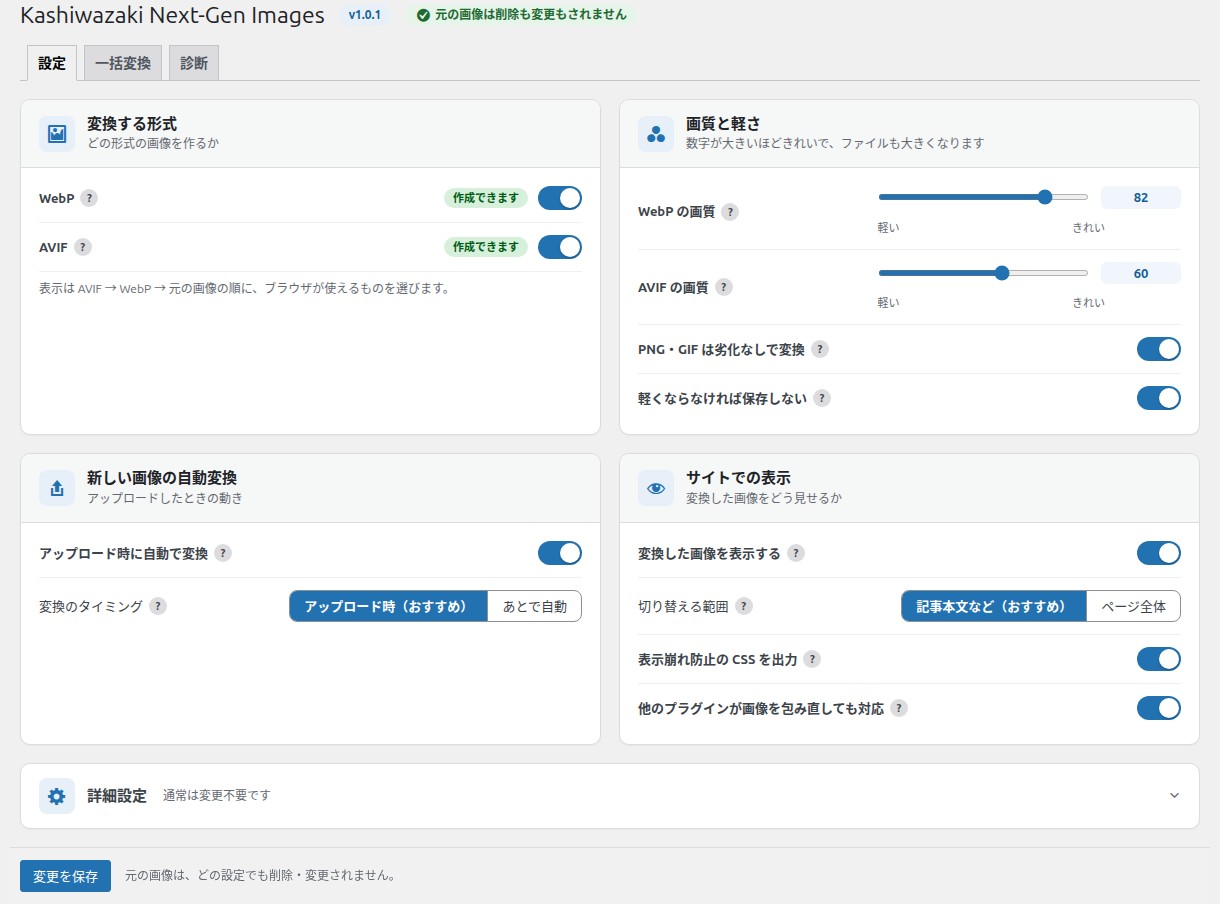
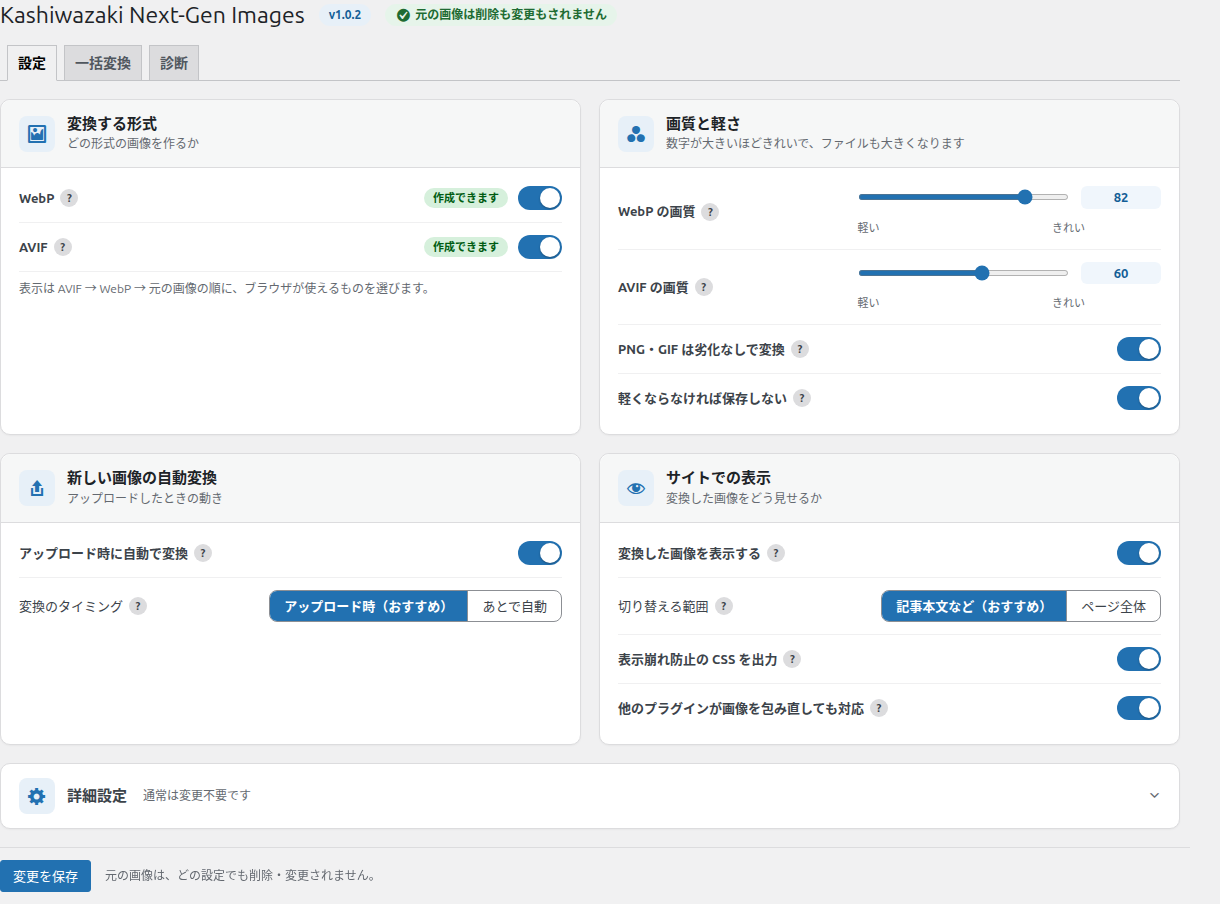
Update to v1.0.2
- cavif で AVIF を作るとき、1 回の処理（一括変換の 1 区切り・アップロード直後の変換・今すぐ変換など）の締め切りを見ずに、1 枚の上限（既定 60 秒）まで待っていた問題を直した。締め切りが近いときは、cavif を締め切りまでで止めるか、始めずに次の回へ回す。止めた分は失敗に数えず、次の回で続けて変換する（一括変換・今すぐ変換などで、その回で最初に変換する 1 枚は、今までどおり上限まで待つ。アップロード直後の変換は、最初の 1 枚から締め切りを守る）
- 締め切りで止めた AVIF を、Imagick・GD で作り直そうとしないようにした
- 変換の途中で PHP の処理が終わったとき（exit など）、動いている cavif を止めてから一時ファイルを消すようにした
- マニュアルの cavif のページに「1 回の処理の締め切りが近いとき」の説明を追加し、画面写真を 1.0.2 の表示に更新

diff --git a/docs/cavif.html b/docs/cavif.html
@@ -11,7 +11,7 @@
     <nav class="sidebar">
         <div class="sidebar-header">
             <h2 style="color:#fff;">Next-Gen Images</h2>
-            <span class="version">v1.0.1</span>
+            <span class="version">v1.0.2</span>
             <img src="images/main-visual.png" alt="" style="width:100%;border-radius:4px;margin-top:8px;">
         </div>
         <ul>
@@ -43,7 +43,7 @@
 </section>
 
 <section><h2>設定したあとの動き</h2>
-<table><thead><tr><th style="width:35%;">項目</th><th>動き</th></tr></thead><tbody><tr><td>使う順番</td><td>「変換エンジン」が「自動」のとき、AVIF は Imagick → GD → cavif の順に、作れる道具を使います。GD か Imagick で AVIF を作れるサーバーでは、cavif は予備になります</td></tr><tr><td>cavif を先に使いたいとき</td><td>「設定」タブの「詳細設定」→「変換エンジン」で「cavif（外部プログラム・AVIF のみ）」を選びます</td></tr><tr><td>画質</td><td>「設定」タブの「AVIF の画質」の数字をそのまま使います</td></tr><tr><td>変換しない画像</td><td>GD と同じです（CMYK の画像、sRGB 以外の色設定の画像、アニメーション画像。「PNG・GIF は劣化なしで変換」がオンのときの PNG・GIF）</td></tr><tr><td>1 枚にかかる時間</td><td>写真 1 枚で数秒が目安です。大きな画像ほど長くかかります</td></tr><tr><td>時間がかかりすぎたとき</td><td>管理画面からの変換では 1 枚 60 秒、コマンドでの変換では 300 秒で打ち切り、その画像の AVIF は「変換できず（エンジンのエラー）」になります。WebP と元の画像の表示には影響しません</td></tr><tr><td>サーバーへの負担</td><td>同じサーバーの他の利用者に迷惑をかけないよう、同時に使う CPU の数を 2 つまでに抑えています</td></tr></tbody></table>
+<table><thead><tr><th style="width:35%;">項目</th><th>動き</th></tr></thead><tbody><tr><td>使う順番</td><td>「変換エンジン」が「自動」のとき、AVIF は Imagick → GD → cavif の順に、作れる道具を使います。GD か Imagick で AVIF を作れるサーバーでは、cavif は予備になります</td></tr><tr><td>cavif を先に使いたいとき</td><td>「設定」タブの「詳細設定」→「変換エンジン」で「cavif（外部プログラム・AVIF のみ）」を選びます</td></tr><tr><td>画質</td><td>「設定」タブの「AVIF の画質」の数字をそのまま使います</td></tr><tr><td>変換しない画像</td><td>GD と同じです（CMYK の画像、sRGB 以外の色設定の画像、アニメーション画像。「PNG・GIF は劣化なしで変換」がオンのときの PNG・GIF）</td></tr><tr><td>1 枚にかかる時間</td><td>写真 1 枚で数秒が目安です。大きな画像ほど長くかかります</td></tr><tr><td>時間がかかりすぎたとき</td><td>管理画面からの変換では 1 枚 60 秒、コマンドでの変換では 300 秒で打ち切り、その画像の AVIF は「変換できず（エンジンのエラー）」になります。WebP と元の画像の表示には影響しません</td></tr><tr><td>1 回の処理の締め切りが近いとき</td><td>一括変換・アップロード直後の変換・「今すぐ変換」は、サーバーの時間制限に収まるよう、1 回の処理に締め切りを決めて区切って進めます。締め切りが近いときは、cavif を締め切りまでで止めるか、始めずに次の回へ回します。この分は失敗に数えず、次の回で続けて変換します（メディアの一覧では「一部のサイズが未処理」と出ることがあります）。一括変換・「今すぐ変換」では、その回で最初に変換する 1 枚は上の時間まで待ちます（アップロード直後の変換は、最初の 1 枚から締め切りを守ります。残りは WP-Cron が動いていればあとで続け、動いていなければ「一括変換」で処理されます）</td></tr><tr><td>サーバーへの負担</td><td>同じサーバーの他の利用者に迷惑をかけないよう、同時に使う CPU の数を 2 つまでに抑えています</td></tr></tbody></table>
 </section>
 
 <section><h2>「使えません」と表示されたとき</h2>
@@ -70,7 +70,7 @@
         </nav>
         <footer class="manual-footer">
             <p>作者: <a href="https://www.tsuyoshikashiwazaki.jp/profile/" target="_blank" rel="noopener">柏崎剛（Tsuyoshi Kashiwazaki）</a></p>
-            <p>プラグイン: Kashiwazaki Next-Gen Images v1.0.1</p>
+            <p>プラグイン: Kashiwazaki Next-Gen Images v1.0.2</p>
         </footer>
     </main>
     <div class="lightbox"></div>

diff --git a/docs/status.html b/docs/status.html
@@ -11,7 +11,7 @@
     <nav class="sidebar">
         <div class="sidebar-header">
             <h2 style="color:#fff;">Next-Gen Images</h2>
-            <span class="version">v1.0.1</span>
+            <span class="version">v1.0.2</span>
             <img src="images/main-visual.png" alt="" style="width:100%;border-radius:4px;margin-top:8px;">
         </div>
         <ul>
@@ -76,7 +76,7 @@ AddType image/avif .avif
         </nav>
         <footer class="manual-footer">
             <p>作者: <a href="https://www.tsuyoshikashiwazaki.jp/profile/" target="_blank" rel="noopener">柏崎剛（Tsuyoshi Kashiwazaki）</a></p>
-            <p>プラグイン: Kashiwazaki Next-Gen Images v1.0.1</p>
+            <p>プラグイン: Kashiwazaki Next-Gen Images v1.0.2</p>
         </footer>
     </main>
     <div class="lightbox"></div>

diff --git a/docs/settings.html b/docs/settings.html
@@ -11,7 +11,7 @@
     <nav class="sidebar">
         <div class="sidebar-header">
             <h2 style="color:#fff;">Next-Gen Images</h2>
-            <span class="version">v1.0.1</span>
+            <span class="version">v1.0.2</span>
             <img src="images/main-visual.png" alt="" style="width:100%;border-radius:4px;margin-top:8px;">
         </div>
         <ul>
@@ -100,7 +100,7 @@
         </nav>
         <footer class="manual-footer">
             <p>作者: <a href="https://www.tsuyoshikashiwazaki.jp/profile/" target="_blank" rel="noopener">柏崎剛（Tsuyoshi Kashiwazaki）</a></p>
-            <p>プラグイン: Kashiwazaki Next-Gen Images v1.0.1</p>
+            <p>プラグイン: Kashiwazaki Next-Gen Images v1.0.2</p>
         </footer>
     </main>
     <div class="lightbox"></div>

diff --git a/docs/bulk.html b/docs/bulk.html
@@ -11,7 +11,7 @@
     <nav class="sidebar">
         <div class="sidebar-header">
             <h2 style="color:#fff;">Next-Gen Images</h2>
-            <span class="version">v1.0.1</span>
+            <span class="version">v1.0.2</span>
             <img src="images/main-visual.png" alt="" style="width:100%;border-radius:4px;margin-top:8px;">
         </div>
         <ul>
@@ -66,7 +66,7 @@
         </nav>
         <footer class="manual-footer">
             <p>作者: <a href="https://www.tsuyoshikashiwazaki.jp/profile/" target="_blank" rel="noopener">柏崎剛（Tsuyoshi Kashiwazaki）</a></p>
-            <p>プラグイン: Kashiwazaki Next-Gen Images v1.0.1</p>
+            <p>プラグイン: Kashiwazaki Next-Gen Images v1.0.2</p>
         </footer>
     </main>
     <div class="lightbox"></div>

diff --git a/docs/cli.html b/docs/cli.html
@@ -11,7 +11,7 @@
     <nav class="sidebar">
         <div class="sidebar-header">
             <h2 style="color:#fff;">Next-Gen Images</h2>
-            <span class="version">v1.0.1</span>
+            <span class="version">v1.0.2</span>
             <img src="images/main-visual.png" alt="" style="width:100%;border-radius:4px;margin-top:8px;">
         </div>
         <ul>
@@ -51,7 +51,7 @@
         </nav>
         <footer class="manual-footer">
             <p>作者: <a href="https://www.tsuyoshikashiwazaki.jp/profile/" target="_blank" rel="noopener">柏崎剛（Tsuyoshi Kashiwazaki）</a></p>
-            <p>プラグイン: Kashiwazaki Next-Gen Images v1.0.1</p>
+            <p>プラグイン: Kashiwazaki Next-Gen Images v1.0.2</p>
         </footer>
     </main>
     <div class="lightbox"></div>

diff --git a/docs/delivery.html b/docs/delivery.html
@@ -11,7 +11,7 @@
     <nav class="sidebar">
         <div class="sidebar-header">
             <h2 style="color:#fff;">Next-Gen Images</h2>
-            <span class="version">v1.0.1</span>
+            <span class="version">v1.0.2</span>
             <img src="images/main-visual.png" alt="" style="width:100%;border-radius:4px;margin-top:8px;">
         </div>
         <ul>
@@ -65,7 +65,7 @@
         </nav>
         <footer class="manual-footer">
             <p>作者: <a href="https://www.tsuyoshikashiwazaki.jp/profile/" target="_blank" rel="noopener">柏崎剛（Tsuyoshi Kashiwazaki）</a></p>
-            <p>プラグイン: Kashiwazaki Next-Gen Images v1.0.1</p>
+            <p>プラグイン: Kashiwazaki Next-Gen Images v1.0.2</p>
         </footer>
     </main>
     <div class="lightbox"></div>

diff --git a/docs/index.html b/docs/index.html
@@ -11,7 +11,7 @@
     <nav class="sidebar">
         <div class="sidebar-header">
             <h2 style="color:#fff;">Next-Gen Images</h2>
-            <span class="version">v1.0.1</span>
+            <span class="version">v1.0.2</span>
             <img src="images/main-visual.png" alt="" style="width:100%;border-radius:4px;margin-top:8px;">
         </div>
         <ul>
@@ -56,7 +56,7 @@
         </nav>
         <footer class="manual-footer">
             <p>作者: <a href="https://www.tsuyoshikashiwazaki.jp/profile/" target="_blank" rel="noopener">柏崎剛（Tsuyoshi Kashiwazaki）</a></p>
-            <p>プラグイン: Kashiwazaki Next-Gen Images v1.0.1</p>
+            <p>プラグイン: Kashiwazaki Next-Gen Images v1.0.2</p>
         </footer>
     </main>
     <div class="lightbox"></div>

diff --git a/docs/media.html b/docs/media.html
@@ -11,7 +11,7 @@
     <nav class="sidebar">
         <div class="sidebar-header">
             <h2 style="color:#fff;">Next-Gen Images</h2>
-            <span class="version">v1.0.1</span>
+            <span class="version">v1.0.2</span>
             <img src="images/main-visual.png" alt="" style="width:100%;border-radius:4px;margin-top:8px;">
         </div>
         <ul>
@@ -53,7 +53,7 @@
         </nav>
         <footer class="manual-footer">
             <p>作者: <a href="https://www.tsuyoshikashiwazaki.jp/profile/" target="_blank" rel="noopener">柏崎剛（Tsuyoshi Kashiwazaki）</a></p>
-            <p>プラグイン: Kashiwazaki Next-Gen Images v1.0.1</p>
+            <p>プラグイン: Kashiwazaki Next-Gen Images v1.0.2</p>
         </footer>
     </main>
     <div class="lightbox"></div>

diff --git a/docs/setup.html b/docs/setup.html
@@ -11,7 +11,7 @@
     <nav class="sidebar">
         <div class="sidebar-header">
             <h2 style="color:#fff;">Next-Gen Images</h2>
-            <span class="version">v1.0.1</span>
+            <span class="version">v1.0.2</span>
             <img src="images/main-visual.png" alt="" style="width:100%;border-radius:4px;margin-top:8px;">
         </div>
         <ul>
@@ -48,7 +48,7 @@
         </nav>
         <footer class="manual-footer">
             <p>作者: <a href="https://www.tsuyoshikashiwazaki.jp/profile/" target="_blank" rel="noopener">柏崎剛（Tsuyoshi Kashiwazaki）</a></p>
-            <p>プラグイン: Kashiwazaki Next-Gen Images v1.0.1</p>
+            <p>プラグイン: Kashiwazaki Next-Gen Images v1.0.2</p>
         </footer>
     </main>
     <div class="lightbox"></div>

diff --git a/docs/troubleshooting.html b/docs/troubleshooting.html
@@ -11,7 +11,7 @@
     <nav class="sidebar">
         <div class="sidebar-header">
             <h2 style="color:#fff;">Next-Gen Images</h2>
-            <span class="version">v1.0.1</span>
+            <span class="version">v1.0.2</span>
             <img src="images/main-visual.png" alt="" style="width:100%;border-radius:4px;margin-top:8px;">
         </div>
         <ul>
@@ -71,7 +71,7 @@
         </nav>
         <footer class="manual-footer">
             <p>作者: <a href="https://www.tsuyoshikashiwazaki.jp/profile/" target="_blank" rel="noopener">柏崎剛（Tsuyoshi Kashiwazaki）</a></p>
-            <p>プラグイン: Kashiwazaki Next-Gen Images v1.0.1</p>
+            <p>プラグイン: Kashiwazaki Next-Gen Images v1.0.2</p>
         </footer>
     </main>
     <div class="lightbox"></div>

diff --git a/includes/class-kashiwazaki-next-gen-images-engine.php b/includes/class-kashiwazaki-next-gen-images-engine.php
@@ -56,6 +56,18 @@ final class Kashiwazaki_Next_Gen_Images_Engine {
 	private static $shutdown_registered = false;
 
 	/**
+	 * いま動いている外部プログラム（cavif）。PHP が途中で終わったとき、終了時の掃除で止めるため。
+	 *
+	 * @var resource|null
+	 */
+	private static $running = null;
+
+	/**
+	 * cavif を起動するのに、締め切りまで最低限残っているべき秒数。これより少なければ起動しない。
+	 */
+	const CAVIF_MIN_WAIT = 2.0;
+
+	/**
 	 * 動作確認の結果を保存するキー。
 	 *
 	 * コマンドライン（WP-CLI・cron）と Web では、同じサーバーでも PHP の拡張が違うことがよくある
@@ -368,6 +380,12 @@ final class Kashiwazaki_Next_Gen_Images_Engine {
 				$result = new WP_Error( 'engine_error', $engine . ': ' . $e->getMessage() );
 			}
 
+			if ( is_wp_error( $result ) && 'time_up' === $result->get_error_code() ) {
+				// 締め切りで止めた（または始めなかった）。別のエンジンで続けると締め切りを越えるので、ここで返す。
+				// 呼び出し元は失敗ではなく「時間切れ・続きで処理」として扱う。
+				self::remove_tmp( $dest );
+				return $result;
+			}
 			if ( is_wp_error( $result ) ) {
 				if ( null === $first_error ) {
 					$first_error = $result;
@@ -1456,6 +1474,13 @@ final class Kashiwazaki_Next_Gen_Images_Engine {
 			return new WP_Error( 'engine_error', 'cavif: destination must be an absolute path' );
 		}
 
+		// 変換の締め切り（microtime の絶対時刻。0 か無ければ締め切りなし）。呼び出し元がこの組で締め切りを守るときだけ渡す。
+		// 残りが少なければ cavif を起動しない（起動しても締め切りまでに終わらず、締め切りを越えて待つことになる）。
+		$deadline = isset( $opts['deadline'] ) ? (float) $opts['deadline'] : 0.0;
+		if ( $deadline > 0 && ( $deadline - microtime( true ) ) < self::CAVIF_MIN_WAIT ) {
+			return new WP_Error( 'time_up', 'cavif: not started (deadline)' );
+		}
+
 		$img = self::gd_load_normalized( $src, $mime, $size );
 		if ( is_wp_error( $img ) ) {
 			return $img;
@@ -1482,6 +1507,19 @@ final class Kashiwazaki_Next_Gen_Images_Engine {
 		// 1 枚にかけてよい秒数。超えたら止めて、失敗として扱う（止まったままのプログラムを残さない）。
 		// 画面からの処理は、サーバーが応答を待つ時間に収まるよう短めに。コマンドライン（WP-CLI）には待ち時間の制限が無いので長めにする。
 		$timeout = max( 1.0, min( 600.0, (float) apply_filters( 'kashiwazaki_next_gen_images_cavif_timeout', ( 'cli' === PHP_SAPI ) ? 300 : 60 ) ) );
+		// 締め切りがあれば、待つのは締め切りまで（中間ファイルを作るのに使った時間を引いて、もう一度確かめる）。
+		$cut_by_deadline = false;
+		if ( $deadline > 0 ) {
+			$left = $deadline - microtime( true );
+			if ( $left < self::CAVIF_MIN_WAIT ) {
+				self::remove_tmp( $png );
+				return new WP_Error( 'time_up', 'cavif: not started (deadline)' );
+			}
+			if ( $left < $timeout ) {
+				$timeout         = $left;
+				$cut_by_deadline = true;
+			}
+		}
 
 		$run = self::run_process(
 			array(
@@ -1509,6 +1547,11 @@ final class Kashiwazaki_Next_Gen_Images_Engine {
 			return new WP_Error( 'engine_error', 'cavif: ' . $run->get_error_message() );
 		}
 		if ( $run['timed_out'] ) {
+			// 締め切りで縮めた待ちで止めたなら、失敗ではなく時間切れ（続きの呼び出しで、もう一度試す）。
+			// 縮めていない待ち（1 枚の上限）で止めたなら、今までどおり失敗。
+			if ( $cut_by_deadline ) {
+				return new WP_Error( 'time_up', 'cavif: stopped at the deadline' );
+			}
 			return new WP_Error( 'engine_error', 'cavif: timed out' );
 		}
 		if ( 0 !== $run['code'] ) {
@@ -1565,6 +1608,9 @@ final class Kashiwazaki_Next_Gen_Images_Engine {
 		if ( ! is_resource( $proc ) ) {
 			return new WP_Error( 'engine_error', 'could not start the program' );
 		}
+		// PHP が途中で終わっても（exit など）、終了時の掃除でこのプログラムを止められるよう覚えておく。
+		self::$running = $proc;
+		self::ensure_shutdown();
 		foreach ( $pipes as $pipe ) {
 			stream_set_blocking( $pipe, false );
 		}
@@ -1599,6 +1645,7 @@ final class Kashiwazaki_Next_Gen_Images_Engine {
 		foreach ( $pipes as $pipe ) {
 			fclose( $pipe ); // phpcs:ignore WordPress.WP.AlternativeFunctions.file_system_operations_fclose
 		}
+		self::$running = null;
 		proc_close( $proc );
 
 		return array(
@@ -1711,6 +1758,15 @@ final class Kashiwazaki_Next_Gen_Images_Engine {
 	 */
 	public static function register_tmp( $path ) {
 		self::$tmp_files[ $path ] = true;
+		self::ensure_shutdown();
+	}
+
+	/**
+	 * 終了時の掃除（cleanup_tmp）を、まだなら登録する。
+	 *
+	 * @return void
+	 */
+	private static function ensure_shutdown() {
 		if ( ! self::$shutdown_registered ) {
 			self::$shutdown_registered = true;
 			register_shutdown_function( array( __CLASS__, 'cleanup_tmp' ) );
@@ -1736,6 +1792,21 @@ final class Kashiwazaki_Next_Gen_Images_Engine {
 	 * @return void
 	 */
 	public static function cleanup_tmp() {
+		// 動いている外部プログラム（cavif）が残っていれば、先に止める（止めないと、消した一時ファイルを書き直したり、
+		// PHP が終わった後も CPU を使い続けたりする）。止まったことを確かめてから一時ファイルを消す（最大 5 秒）。
+		// PHP が SIGTERM・SIGKILL で終わったときなどは、この関数自体が呼ばれない（PHP マニュアル register_shutdown_function）。
+		if ( is_resource( self::$running ) ) {
+			$proc          = self::$running;
+			self::$running = null;
+			proc_terminate( $proc, 9 );
+			for ( $i = 0; $i < 250; $i++ ) {
+				$status = proc_get_status( $proc );
+				if ( empty( $status['running'] ) ) {
+					break;
+				}
+				usleep( 20000 );
+			}
+		}
 		foreach ( array_keys( self::$tmp_files ) as $path ) {
 			self::remove_tmp( $path );
 		}

diff --git a/includes/class-kashiwazaki-next-gen-images-converter.php b/includes/class-kashiwazaki-next-gen-images-converter.php
@@ -785,7 +785,23 @@ final class Kashiwazaki_Next_Gen_Images_Converter {
 				// ただし、この呼び出しでまだ 1 回も変換していなければ、締め切りを無視して 1 つは進める。
 				// （締め切りが極端に短くても、毎回「何もできず時間切れ」にならないように。
 				// すでに変換済みのペアを確認しただけでは、進んだことにしない。）
-				if ( $deadline > 0 && ( $attempted > 0 || ! empty( $args['strict_deadline'] ) ) && ( microtime( true ) + $reserve ) >= $deadline ) {
+				$defer = $deadline > 0 && ( $attempted > 0 || ! empty( $args['strict_deadline'] ) ) && ( microtime( true ) + $reserve ) >= $deadline;
+				$pair  = null;
+				if ( ! $defer ) {
+					// 締め切りを守る組（上の 2 つの判定と同じ条件）は、変換エンジンにも締め切りを渡す（cavif は締め切りまでしか待たない）。
+					// 守らない組（この呼び出しで最初に変換する組）は渡さない（今までどおり 1 枚の上限まで待つ）。
+					$honor                        = $deadline > 0 && ( $attempted > 0 || ! empty( $args['strict_deadline'] ) || $repeat_wf );
+					$pair_args['engine_deadline'] = $honor ? $deadline : 0.0;
+					$pair                         = self::process_pair( $f, $format, $old, $same_src, $pair_args, $src_size, $src_mtime, $owned );
+					if ( ! empty( $pair['time_up'] ) ) {
+						// 締め切りで止めた（または始めなかった）。失敗ではないので札は付けず、始めなかった組と同じに扱う（下の枝）。
+						if ( $repeat_wf ) {
+							continue; // 所有している write_failed の自動の再試行は、上と同じく未解決に数えない（記録は前のまま）。
+						}
+						$defer = true;
+					}
+				}
+				if ( $defer ) {
 					// 始めなかった組が、まだ処理を要するなら未解決に数える（この呼び出しを partial にし、続きで処理する）。
 					// 前回の記録を引き継いだ組も、needs_work() と同じ規則（pair_needs_work）で見る: 設定の切り替えで古くなった札、
 					// 消えた変換ファイル、劣化なしに戻したときの片付けを、「済み」と数えて取り残さない。
@@ -822,7 +838,6 @@ final class Kashiwazaki_Next_Gen_Images_Converter {
 				}
 
 				$retain_po = false;
-				$pair      = self::process_pair( $f, $format, $old, $same_src, $pair_args, $src_size, $src_mtime, $owned );
 				$tried_engine = ! empty( $pair['attempted'] ); // 進みに数えるかは、下の片付けまで終えた最後の結果で決める。
 				// この回で処理した組に札を付ける（作り直しは今どおり全部の組。以前の失敗の再試行は、前回の札をそのまま返しただけの組を除く）。
 				if ( $args['force'] || ( $args['retry_failed'] && empty( $pair['kept'] ) ) ) {
@@ -1173,10 +1188,16 @@ final class Kashiwazaki_Next_Gen_Images_Converter {
 		$opts     = array(
 			'quality'  => (int) ( 'webp' === $format ? $settings['webp_quality'] : $settings['avif_quality'] ),
 			'lossless' => self::lossless_wanted( $f['mime'], $format ),
+			'deadline' => isset( $args['engine_deadline'] ) ? (float) $args['engine_deadline'] : 0.0, // 0 は締め切りなし。
 		);
 
 		$tmp = $dest . '.' . wp_generate_password( 8, false ) . '.tmp';
 		$res = Kashiwazaki_Next_Gen_Images_Engine::convert( $f['path'], $f['mime'], $tmp, $format, $opts );
+		if ( is_wp_error( $res ) && 'time_up' === $res->get_error_code() ) {
+			// 締め切りで止めた（失敗ではない）。札は付けず、呼び出し元が「締め切りで始めなかった組」と同じに扱う。
+			Kashiwazaki_Next_Gen_Images_Engine::remove_tmp( $tmp );
+			return array( 'time_up' => true );
+		}
 		if ( is_wp_error( $res ) ) {
 			Kashiwazaki_Next_Gen_Images_Engine::remove_tmp( $tmp );
 			return array(
